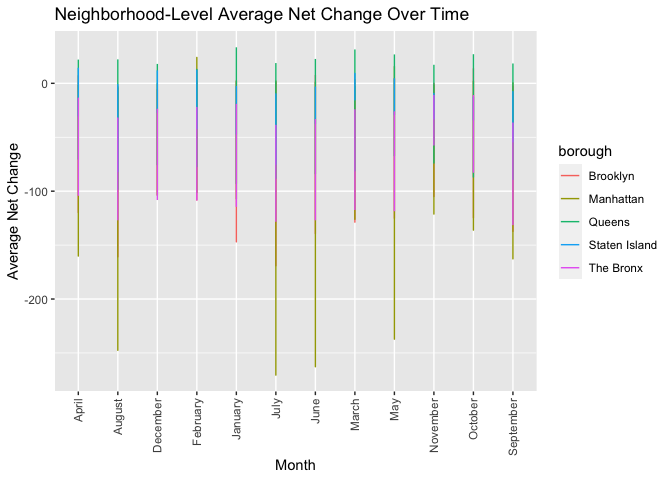
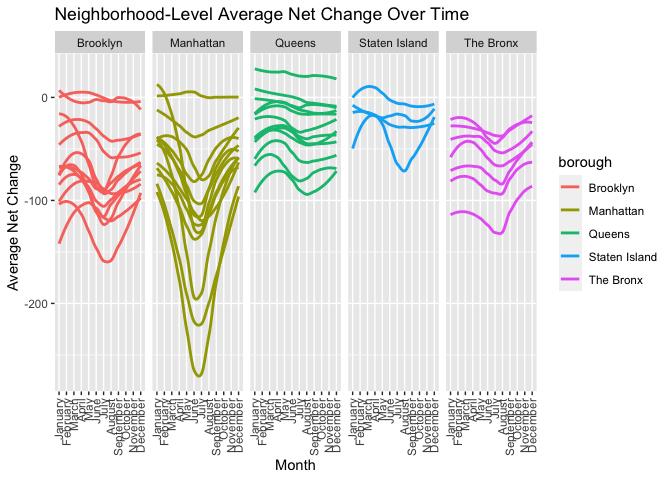
Removing text to stay under word count; edits to final plot

Changed region(s): [[0.0, 0.0625, 0.8125, 0.9688], [0.8125, 0.2812, 1.0, 0.5938]]

diff --git a/p8105_mtp_lvr2115.md b/p8105_mtp_lvr2115.md
@@ -5,19 +5,19 @@ Laura Robles-Torres
 
 # Introduction
 
-The data being imported and cleaned are from Change of Address (COAs)
-forms received by the United States Post Office in New York City between
-2018 and 2022. They include the total number of COAs to and from each
-NYC zip code for each month of those 5 years. These COAs are filed by
-people who are moving to ensure that mail is delivered to their new
-address.
+The data are from Change of Address (COAs) forms received by USPS in NYC
+between 2018 and 2022. They include the total number of COAs to and from
+each NYC zip code for each month of those 5 years. These COAs are filed
+by people who are moving to ensure that mail is delivered to their new
+address. The goal of this report is to import and tidy the data, and
+then complete some exploratory analysis and visualizations for it.
 
 ## Problem-1
 
-Given that in some cases the borough name and the county name differ, a
-dataset with neighborhood data called `zipcodes` is imported and tidied
-to clarify. A new variable `borough` is created in this dataset to
-accurately reflect the borough each zipcode is located in.
+A dataset with neighborhood data called `zipcodes` is imported to
+clarify where borough and county names may differ. A new variable
+`borough` is created in this dataset to accurately reflect the borough
+each zipcode is located in.
 
 ``` r
 zipcodes = 
@@ -41,12 +41,10 @@ zipcodes =
     ## ℹ Use `spec()` to retrieve the full column specification for this data.
     ## ℹ Specify the column types or set `show_col_types = FALSE` to quiet this message.
 
-Given that the data from COAs for each year is in a different Excel
-sheet, each sheet is exported and cleaned before being combined via
-`bind_rows` into a dataset called `combined_coa`. Variables
-`total_perm_in` and `total_perm_out`indicate the total number of
-permanent address changes going into and out of each zip code,
-respectively.
+Each sheet containing COA data from each year is exported and variable
+names cleaned. Variables `total_perm_in` and `total_perm_out`indicate
+the total number of permanent address changes going into and out of each
+zip code.
 
 ``` r
 coa_2018 = 
@@ -70,15 +68,15 @@ coa_2022 =
   janitor::clean_names() #clean var names
 ```
 
-A new variable called `net_change`is created in each annual dataset that
-subtracts each `total_perm_out` from each `total_perm_in` value to
-reflect the increase or decrease in COAs that month and year.
-`month_num` is renamed as `month`, recoded as a factor variable and
-replaced with month names. Variable `year` is created by separating
-`month` into year, name of month, and day. Then, all of the annual
-datasets for COAs data from years 2018 and 2022 were bound together and
-`zipcode` was re-named to `zip_code` to match `zipcodes` and allow for
-merging.
+A new variable called `net_change`is created that subtracts each
+`total_perm_out` from each `total_perm_in` value to reflect the increase
+or decrease in COAs that month and year. `month_num` is renamed as
+`month`, recoded as a factor variable and replaced with month names.
+Variable `year` is created by separating `month` into year, name of
+month, and day. Then, all of the annual COAs data from years 2018 and
+2022 were bound together using `bind_rows` into a dataset called
+`combined_coa`. `zipcode` was re-named to `zip_code` to match `zipcodes`
+and allow for merging.
 
 ``` r
 combined_coa =
@@ -104,8 +102,6 @@ combined_coa =
   month = as.factor(month) #recode as factor variable
 ) 
 ```
-
-Merging `combined_coa` with `zipcodes`:
 
 ``` r
 merged_coazips = 
@@ -183,17 +179,13 @@ Jamaica, Flushing, and Astoria are the top 3 cities represented in
 Brookyln COAs. These are all neighborhoods within the borough, not
 cities, and are not accurate data points.
 
-There are 60 months between 2018 and 2022, but many ZIP codes have fewer
-than 60 observations; most of these are also missing neighborhood
-values. Discuss why this might be the case, using a few concrete
-examples as illustration.
+# There are 60 months between 2018 and 2022, but many ZIP codes have fewer than 60 observations; most of these are also missing neighborhood values. Discuss why this might be the case, using a few concrete examples as illustration.
 
 ## Problem-2
 
-This table shows the average change in COAs in each borough and year.
 Across all boroughs, except Staten Island, the absolute average change
-in COAs is the highest in 2020, showing the increase in people moving
-out of NYC in 2020 during the COVID-19 pandemic.
+in COAs is the highest in 2020, showing an increase in people moving out
+of NYC in 2020 during the COVID-19 pandemic.
 
 ``` r
 merged_coazips |>
@@ -220,9 +212,8 @@ merged_coazips |>
 This table shows the five lowest values of average change in COAs and
 they are all negative values. The zipcodes are all in the neighborhoods
 Gramercy Park/Murray Hill and the Lower East Side. These experienced the
-highest number of move-outs relative to move-ins. These are all in the
-immediate aftermath of the onset of the COVID-19 pandemic between
-May-July 2020.
+highest number of move-outs relative to move-ins. These are all at the
+onset of the COVID-19 pandemic between May-July 2020.
 
 ``` r
 merged_coazips |>
@@ -241,10 +232,9 @@ merged_coazips |>
 |    10009 | Lower East Side               | June  | 2020 |       -804 |
 
 This table shows the five highest values of average change in COAs
-before 2020 and they are all positive values, showing neighborhoods that
-experienced the most move-ins relative to move-outs. These highest
-values are in April-July 2018 and range from neighborhoods in Queens,
-Manhattan and Brookyln.
+before 2020, showing neighborhoods that experienced the most move-ins
+relative to move-outs. These highest values are in April-July 2018 and
+range from neighborhoods in Queens, Manhattan and Brookyln.
 
 ``` r
 merged_coazips |>
@@ -263,27 +253,35 @@ merged_coazips |>
 |    10001 | Chelsea and Clinton | July  | 2018 |        225 |
 |    11201 | Northwest Brooklyn  | April | 2018 |        217 |
 
-This plot shows neighborhood-level average net_change values
-(i.e. averaging across ZIP codes within neighborhoods) against month
-over all five years. Your plot should facilitate comparisons across
-boroughs. Will this work? OR no?
+This plot shows neighborhood-level average net_change values against
+month over all five years across the boroughs.
 
 ``` r
-neighborhood_avg =
+neighborhood_avg_plot =
   merged_coazips |> 
-  group_by(borough, neighborhood, month) |> 
+  group_by(borough, neighborhood, month, year) |> 
   summarize(avg_net_change = mean(net_change, na.rm = TRUE))
 ```
 
-    ## `summarise()` has grouped output by 'borough', 'neighborhood'. You can override
-    ## using the `.groups` argument.
+    ## `summarise()` has grouped output by 'borough', 'neighborhood', 'month'. You can
+    ## override using the `.groups` argument.
 
 ``` r
-neighborhood_avg |> 
-  ggplot(aes(x = month, y = avg_net_change, color = borough)) + 
-  geom_line() +
-  labs(x = "Month", y = "Average Net Change", title = "Neighborhood-Level Average Net Change Over Time") +
-  theme(axis.text.x = element_text(angle=90, vjust=0.5, hjust=1)) 
+neighborhood_avg_plot |>
+  mutate(month = factor(month, levels = month.name, ordered = TRUE)) |> 
+  ggplot(aes(x = month, y = avg_net_change, color = borough, group = neighborhood)) +
+  geom_smooth(se = FALSE) +
+  facet_grid(. ~borough) +
+  labs(
+    x = "Month", 
+    y = "Average Net Change",
+    title = "Neighborhood-Level Average Net Change Over Time"
+  ) +
+  theme(axis.text.x = element_text(angle = 90, vjust = 0.5, hjust = 1))
 ```
 
+    ## `geom_smooth()` using method = 'loess' and formula = 'y ~ x'
+
 ![](p8105_mtp_lvr2115_files/figure-gfm/unnamed-chunk-6-1.png)<!-- -->
+
+# Zip-code level data may not be truly representative of population changes as zipcodes represent more than one neighborhood at times, which may have different population changes.
